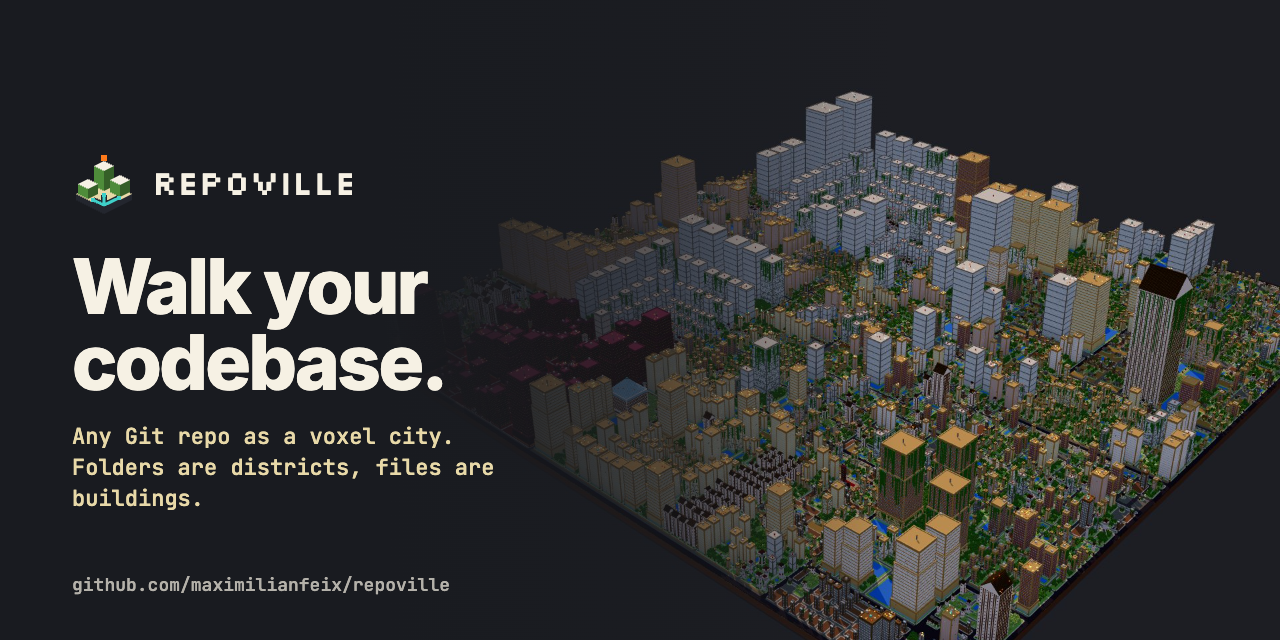
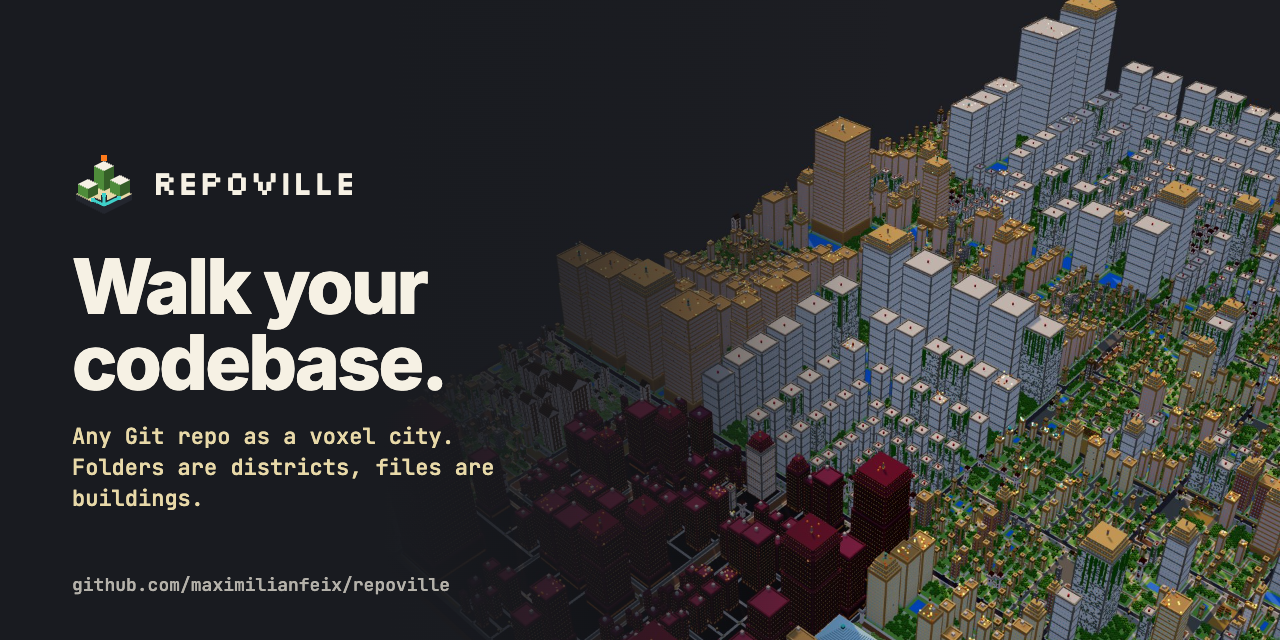
docs: cinematic hero and social preview, texture screenshots

diff --git a/scripts/build-site.ts b/scripts/build-site.ts
@@ -51,7 +51,7 @@ async function shot(slug: string, file: string, w: number, h: number, query = 'u
   await page.screenshot({ path: join(OUT, 'media', file), type: file.endsWith('.jpg') ? 'jpeg' : 'png', quality: file.endsWith('.jpg') ? 86 : undefined });
   await page.close();
 }
-await shot('facebook/react', 'hero-react.jpg', 1920, 1080);
+await shot('facebook/react', 'hero-react.jpg', 1920, 1080, 'ui=off&quality=high', 'f=packages/react-reconciler');
 await shot('facebook/react', 'react-ui.jpg', 1440, 900, 'quality=high');
 await shot('torvalds/linux', 'linux.jpg', 1280, 800);
 await shot('BurntSushi/ripgrep', 'ripgrep.jpg', 1280, 800);
